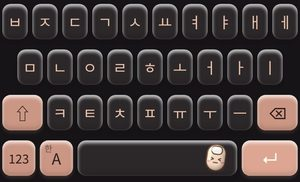
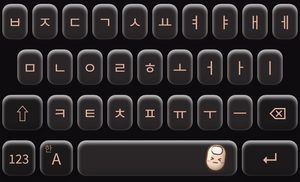
2026.11.11-5 블랙 바탕 로즈 골드 글씨
Claude-Session: https://claude.ai/code/session_01GvSCgEXELCVfxACkb9NKF6

diff --git a/Shared/KBTheme.swift b/Shared/KBTheme.swift
@@ -106,10 +106,10 @@ struct KBTheme {
 
         // ---- 레트로 10색 (키캡 모양 고르기) ----
         KBTheme(id: "rt_rose", name: "블랙 & 로즈 골드",
-                bg: c(22, 20, 22), key: c(44, 40, 42), special: c(204, 150, 132),
-                pressKey: c(60, 56, 58), pressSpecial: c(186, 134, 116),
-                text: c(232, 192, 172), specialText: c(44, 30, 28),
-                accent: c(220, 166, 146), depth: 4, radius: 10, short: "로즈 골드", group: "retro"),
+                bg: c(14, 12, 14), key: c(42, 38, 40), special: c(28, 25, 27),
+                pressKey: c(60, 55, 57), pressSpecial: c(46, 42, 44),
+                text: c(226, 176, 156), specialText: c(226, 176, 156),
+                depth: 4, radius: 10, short: "로즈 골드", group: "retro"),
         KBTheme(id: "rt_navy", name: "네이비 & 오렌지",
                 bg: c(36, 52, 92), key: c(246, 242, 232), special: c(72, 98, 156),
                 pressKey: c(231, 227, 218), pressSpecial: c(66, 90, 143),
